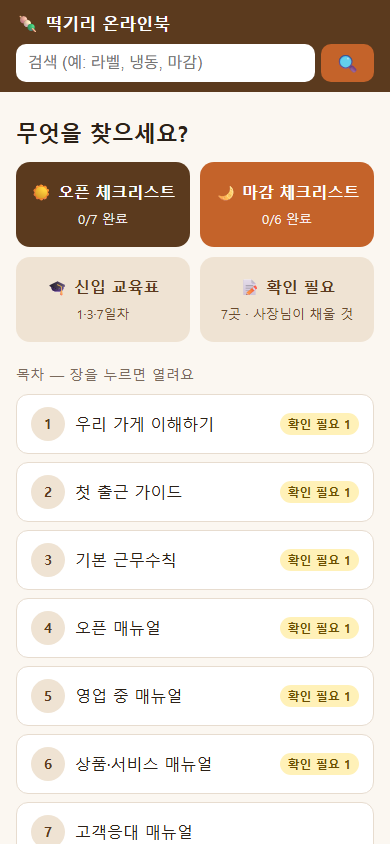
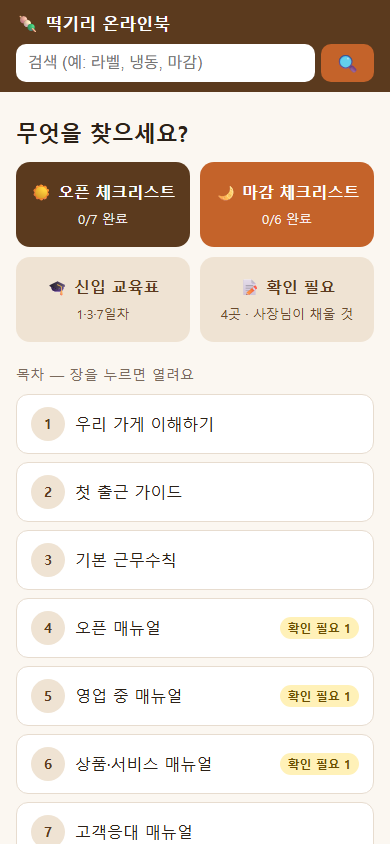
v1 매뉴얼 보완: 서비스 기준·출근/인수인계·보고 체계·지각/결근 기준 채움 (확인 필요 7→4곳) (떡기리)

diff --git a/02_실전캠프_Day2_실습제출/2조_김은정_떡기리/v1/프로젝트/content.js b/02_실전캠프_Day2_실습제출/2조_김은정_떡기리/v1/프로젝트/content.js
@@ -15,7 +15,10 @@ window.BOOK_MD = `# 떡기리 신입직원 교육 온라인북
 - **3무 원칙: 무방부제·무색소·무첨가**
 - 단순한 간식이 아니라 "선물로 나눌 수 있는 품격 / 가족이 함께 즐길 수 있는 따뜻함 / 건강을 지키는 가치"를 담음
 
-**우리가 중요하게 생각하는 서비스 기준**: *확인 필요 — 손님께 전하고 싶은 느낌을 한 줄로 알려주시면 채워넣겠습니다.*
+**우리가 중요하게 생각하는 서비스 기준 — "따뜻하게 맞이하고, 정직하게 설명하며, 정성껏 담아드립니다"**
+- [ ] **따뜻하게 맞이하기**: 손님이 들어오면 3초 안에 미소와 인사 (7장 ① 기준)
+- [ ] **정직하게 설명하기**: 원재료·첨가물·보관 기한은 아는 대로만 안내. 모르면 "확인해 드릴게요" 하고 사수에게 확인 후 답하기
+- [ ] **정성껏 담아드리기**: 포장은 6장 기준대로, 전달할 때 "흔들림 주의" 멘트까지 (7장 ③ 기준)
 
 ---
 
@@ -23,7 +26,9 @@ window.BOOK_MD = `# 떡기리 신입직원 교육 온라인북
 
 - [ ] 유니폼·앞치마·네임택 착용 (브랜드를 대표한다는 마음으로)
 - [ ] 손톱 짧게, 긴 머리는 묶기, 강한 향수·화장품 금지 *(8장 위생 기준과 동일)*
-- [ ] 출근 시간, 인수인계 방법: *확인 필요*
+- [ ] 출근 시간: **정해진 출근 시간을 지킨다** (근무 매장의 시간표 기준). 늦을 것 같으면 3장 지각·결근 기준대로 미리 연락
+- [ ] 교대(인수인계) 시 다음 근무자에게 **재고 · 예약 · 폐기 · 매장 특이사항** 4가지를 정확히 전달한다
+- [ ] 필요한 내용은 **인수인계 노트에 반드시 기록**한다 (말로만 전달하지 않기)
 - [ ] 급여 지급일·방식: 매장마다 다름 (근무 매장의 기준을 첫날 안내받기)
 - [ ] 첫날 담당 사수: 매니저 또는 점주
 - [ ] 첫날 목표: 이 온라인북의 1~4장(가게 이해·근무수칙·오픈)까지 훑어보기
@@ -38,7 +43,13 @@ window.BOOK_MD = `# 떡기리 신입직원 교육 온라인북
 - [ ] 점심·휴식 시간은 교대제로 준수
 - [ ] 매출·재고 관리 기록(v1 엑셀 툴 입력 등) 철저히 작성
 
-**인수인계·보고 체계, 지각·결근 처리 기준**: *확인 필요*
+**인수인계·보고 체계**
+- [ ] 교대 시 주요 업무·재고·예약·특이사항을 다음 근무자에게 정확히 인계한다 (2장 인수인계 노트 기준)
+- [ ] 문제가 생기면 **즉시 관리자(매니저·점주)에게 보고**한다
+
+**지각·결근 처리 기준**
+- [ ] 지각이나 결근이 예상되면 가능한 한 **사전에 관리자에게 직접 연락**한다
+- [ ] **무단 지각·무단 결근은 금지**
 
 ---
 

diff --git a/02_실전캠프_Day2_실습제출/2조_김은정_떡기리/PRD_전체.md b/02_실전캠프_Day2_실습제출/2조_김은정_떡기리/PRD_전체.md
@@ -12,7 +12,7 @@
 > AI에게: "PRD_전체.md를 인터뷰하면서 같이 채워 줘. 질문은 한 번에 하나씩, 내가 짧게 답하면 예를 들어 달라고 다시 물어봐 줘."
 
 **재료가 되는 기존 자료 (과제 1에서 이미 만든 것)**
-- `떡기리_신입직원_교육_온라인북.md` — 기존 PDF 매뉴얼 10개(오픈/마감/근무규정/서비스/위생/고객응대/조리/팝업/커피머신/제빙기)를 12장으로 합치고 중복을 없앤 결과물. 별도 출력물 4개(1·3·7일차 교육표, 오픈 체크리스트, 마감 체크리스트, 사장용 교육 완료 점검표) 포함. "확인 필요" 7곳.
+- `떡기리_신입직원_교육_온라인북.md` — 기존 PDF 매뉴얼 10개(오픈/마감/근무규정/서비스/위생/고객응대/조리/팝업/커피머신/제빙기)를 12장으로 합치고 중복을 없앤 결과물. 별도 출력물 4개(1·3·7일차 교육표, 오픈 체크리스트, 마감 체크리스트, 사장용 교육 완료 점검표) 포함. "확인 필요" 4곳.
 - `떡기리_재고발주추천툴.xlsx` — 마감 때 폐기수량을 넣으면 다음 날 추천 해동수량이 나오는 엑셀. 온라인북 4장·9장·10장에서 이 툴을 가리킨다.
 - 이 도구는 **그 내용을 새로 쓰는 게 아니라, 직원 폰에서 찾아보고 체크할 수 있는 화면으로 옮기는 것**이다.
 
@@ -61,7 +61,7 @@
 | 검색 | 단어를 치면 해당 장·항목이 바로 나옴. 없는 단어면 "찾는 내용이 없어요. 사수나 사장님께 물어보세요" | [v1] | 막힌 순간에 찾는 핵심 기능. 외부 연결 없음 |
 | 오픈·마감 체크리스트 | 별도 출력물 ②③(오픈 7항목·마감 6항목)을 눌러서 체크. "5/7 완료" 표시. 화면을 닫아도 오늘 체크 상태는 그 폰에 남고, 다음 날 새로 시작 | [v1] | 한 달에 1~2번 빠뜨리는 게 제일 아까운 실수. 폰 저장이라 데이터 창고 없이 가능 |
 | 1·3·7일차 교육표 + "읽었어요" 체크 | 12장 표를 화면으로. 신입이 그날 읽을 장으로 바로 이동, 읽으면 체크(그 폰에 남음) | [v1] | 내용이 이미 있고, 링크와 체크만 붙이면 됨 |
-| "확인 필요" 모아 보기 | 온라인북에 남은 "확인 필요" 7곳을 한 화면에 목록으로. 사장이 채울 것을 잊지 않게 | [v1] | 표시만 모으면 되는 작은 기능. 내용 채우기는 사장 몫 |
+| "확인 필요" 모아 보기 | 온라인북에 남은 "확인 필요" 4곳을 한 화면에 목록으로. 사장이 채울 것을 잊지 않게 | [v1] | 표시만 모으면 되는 작은 기능. 내용 채우기는 사장 몫 |
 | 사장 관리 화면 | 사장이 폰에서 바로 장 내용을 고치고, "확인 필요"를 채우고, 사진을 올림 (Supabase에 저장) | [v2] | 데이터 창고·사진 저장 필요. v1을 써 보며 어떤 장이 자주 바뀌는지 본 뒤 만드는 게 맞음 |
 | 직원별 교육·체크 기록 → 사장 점검표 | 직원이 별칭을 고르고 체크하면 누가 언제 오픈·마감 체크를 했는지, 1·3·7일차가 어디까지 됐는지 사장·사수가 봄. 별도 출력물 ④(교육 완료 점검표)를 화면으로 (Supabase) | [v2] | 여러 폰의 기록을 한곳에 모아야 해서 데이터 창고 필요. 관리자 확인은 사수가 누름 |
 | 재고 엑셀 툴 연결 | 오픈 4장 "추천 해동수량" 자리에 엑셀(재고발주추천툴)을 올리면 오늘 추천 수량이 화면에 뜸 | [v2] | 파일 올리기라 v1도 가능하지만, 먼저 북과 체크리스트가 자리 잡은 뒤. 엑셀 열 구조 확인 필요 |
@@ -83,7 +83,7 @@
 | 검색 결과 | 직원·사장 | 단어가 들어간 항목 목록 → 누르면 그 장의 그 위치. 없으면 안내 문구 | [v1] |
 | 오픈 체크리스트 / 마감 체크리스트 | 직원 | 7항목 / 6항목 체크, "5/7 완료" 진행 표시, 오늘 상태 유지, "자세히"를 누르면 4장·10장으로 | [v1] |
 | 신입 교육표 | 신입·사수 | 1·3·7일차 표, 각 장으로 가는 링크, "읽었어요" 체크 | [v1] |
-| "확인 필요" 목록 | 사장 | 7곳 목록과 위치. 누르면 그 자리로 | [v1] |
+| "확인 필요" 목록 | 사장 | 4곳 목록과 위치. 누르면 그 자리로 | [v1] |
 | 사장 관리 화면 | 사장 | 장·항목 편집, "확인 필요" 채우기, 사진 업로드, 시즌 장 켜기/끄기 | [v2] |
 | 직원별 기록·점검표 | 사장·사수 | 날짜별 누가 무엇을 체크했는지, 신입별 1·3·7일차 진행, 관리자 확인 버튼 | [v2] |
 | 오늘 추천 해동수량 | 직원 | 엑셀에서 읽은 제품별 추천 수량 (4장 안에 표시) | [v2] |
@@ -132,7 +132,7 @@
   - 검색창에 "라벨" 입력 → 6장 라벨링 항목(품목명/제조일/담당자/사용기한)이 나옴. "냉동" 입력 → 4장 냉동 -18℃ 항목. 없는 단어 → 안내 문구
   - 오픈 체크리스트에서 3개 체크 → "3/7 완료" → 화면 닫았다 열어도 3개 유지
   - 신입 교육표에서 1일차 "읽었어요" 체크 → 유지
-  - "확인 필요" 목록에 7개가 보이고 누르면 그 자리로 이동
+  - "확인 필요" 목록에 4개가 보이고 누르면 그 자리로 이동
 
 ## 10. 외부 연결 후보 (주로 v2)
 
@@ -149,7 +149,7 @@
 - [가정] 직원이 보면 안 되는 내용 없음
 - [가정] 체크리스트는 다음 날 초기화 · 인터넷이 끊겨도 마지막 장은 보임
 - [가정] 목표 숫자(직원 질문 주 2번 이하)는 어림. v1을 써 본 뒤 잰다
-- 온라인북의 "확인 필요" 7곳 (서비스 기준 한 줄, 출근 시간·인수인계, 지각·결근 처리, 음악·조명 기준, 피크타임 대응, 상세 레시피, 돌발상황 대응) — 사장이 채운다. 도구는 목록만 보여 준다
+- 온라인북의 "확인 필요" 4곳 (서비스 기준 한 줄, 출근 시간·인수인계, 지각·결근 처리, 음악·조명 기준, 피크타임 대응, 상세 레시피, 돌발상황 대응) — 사장이 채운다. 도구는 목록만 보여 준다
 - 신입 교육표의 "읽었어요"를 v1에서 그 폰에만 남길지, 처음부터 Supabase에 남길지 — v1은 폰에만 [가정]
 - 나중에 따로 (운영 도구가 아니라 여기서는 만들지 않음): 명절선물세트 패키지 기획(가게 소개의 원래 아이디어), 네이버플레이스 홍보 콘텐츠 생성(과제 2). 선물세트 포장·예약 접수 순서는 시즌 장으로 [v2]에 이어 둠
 
@@ -158,6 +158,7 @@
 | 날짜 | 무엇이 바뀌었나 | 왜 (써 본 경험 등) |
 |---|---|---|
 | 2026-09-17 | v1 PRD와 가게 소개에서 옮겨 처음 작성 · 인터뷰로 1·2·9번 숫자 채움 | 사전에 쓴 v1 PRD가 있어 이어 쓰기 |
+| 2026-09-17 | 사장 피드백으로 "확인 필요" 3곳 채움: 1장 서비스 기준, 2장 출근 시간·인수인계, 3장 보고 체계·지각·결근 기준 → 남은 확인 필요 4곳 | v1 마무리. 사장이 실제 기준을 정해 줌 |
 | 2026-09-17 | 과제 1 결과물(12장 온라인북 .md, 별도 출력물 4개, 재고 엑셀 툴)을 재료로 접목. 챕터 6개 → 12장, 교육표·"확인 필요" 목록 [v1] 추가, 결제·주문관리 장·돌발상황·엑셀 연결을 [v2]에 추가 · v1/v2 나눔 | 사장님이 과제 1 온라인북을 접목해 달라고 함. 내용은 이미 있으니 도구는 "찾아보고 체크하는 화면"에 집중 |
 
 ---

diff --git a/02_실전캠프_Day2_실습제출/2조_김은정_떡기리/v1/PRD.md b/02_실전캠프_Day2_실습제출/2조_김은정_떡기리/v1/PRD.md
@@ -46,7 +46,7 @@
 - 기능 2: **검색** — 단어를 치면 해당하는 장·항목이 바로 나옴
 - 기능 3: **오픈·마감 체크리스트** — 별도 출력물 ②③(오픈 7항목·마감 6항목)을 항목 하나씩 체크하며 진행. "5/7 완료" 표시. 화면을 닫아도 오늘 체크 상태는 그 폰에 남고, 다음 날 새로 시작
 - 기능 4: **신입 1·3·7일차 교육표 + "읽었어요" 체크** — 12장 표를 화면으로. 그날 읽을 장으로 바로 이동, 읽으면 체크(그 폰에 남음)
-- 기능 5: **"확인 필요" 모아 보기** — 온라인북에 남은 "확인 필요" 7곳을 한 화면 목록으로. 누르면 그 자리로
+- 기능 5: **"확인 필요" 모아 보기** — 온라인북에 남은 "확인 필요" 4곳을 한 화면 목록으로. 누르면 그 자리로
 - **이번에 하지 않을 것 (v2 또는 나중):**
   - 사장이 화면에서 직접 내용 수정·사진 업로드하는 관리 화면 (v1은 사장이 파일을 고쳐서 다시 올림)
   - 직원별 체크·교육 기록을 한곳에 모으는 것과 사장용 점검표 (v1은 그 폰에만 남음)
@@ -56,7 +56,7 @@
 ## 6. 완성됐다는 걸 어떻게 확인하나요?
 
 - 시연할 예시 입력: 폰으로 주소를 열고 → 목차에서 "8장 위생·청소" 클릭 → 검색창에 "라벨" 입력 → 오픈 체크리스트에서 3개 체크 → 신입 교육표에서 1일차 "읽었어요" 체크 → "확인 필요" 목록 열기
-- 기대하는 결과: 8장이 열리고 기기별 세척 주기 표가 보임. "라벨" 검색 시 6장 라벨링 항목(품목명/제조일/담당자/사용기한)이 나옴. 오픈 체크리스트가 "3/7 완료"로 보임. "확인 필요" 목록에 7개가 보이고 누르면 그 자리로 이동
+- 기대하는 결과: 8장이 열리고 기기별 세척 주기 표가 보임. "라벨" 검색 시 6장 라벨링 항목(품목명/제조일/담당자/사용기한)이 나옴. 오픈 체크리스트가 "3/7 완료"로 보임. "확인 필요" 목록에 4개가 보이고 누르면 그 자리로 이동
 - 잘못 입력했을 때: 없는 단어를 검색하면 "찾는 내용이 없어요. 사수나 사장님께 물어보세요" 문구가 나오고 화면이 깨지지 않음. "확인 필요" 항목을 직원이 열면 "아직 기준이 정해지지 않았어요. 사수에게 확인하세요"
 - 다시 열었을 때 남아 있어야 할 것: 같은 폰에서 오늘 체크한 오픈·마감 체크리스트 상태와 교육표 "읽었어요" 상태. 내용 자체는 파일에 있으니 항상 그대로. 하루가 지나면 체크리스트는 새로 시작
 

diff --git a/02_실전캠프_Day2_실습제출/2조_김은정_떡기리/v1/프로젝트/content.md b/02_실전캠프_Day2_실습제출/2조_김은정_떡기리/v1/프로젝트/content.md
@@ -14,7 +14,10 @@
 - **3무 원칙: 무방부제·무색소·무첨가**
 - 단순한 간식이 아니라 "선물로 나눌 수 있는 품격 / 가족이 함께 즐길 수 있는 따뜻함 / 건강을 지키는 가치"를 담음
 
-**우리가 중요하게 생각하는 서비스 기준**: *확인 필요 — 손님께 전하고 싶은 느낌을 한 줄로 알려주시면 채워넣겠습니다.*
+**우리가 중요하게 생각하는 서비스 기준 — "따뜻하게 맞이하고, 정직하게 설명하며, 정성껏 담아드립니다"**
+- [ ] **따뜻하게 맞이하기**: 손님이 들어오면 3초 안에 미소와 인사 (7장 ① 기준)
+- [ ] **정직하게 설명하기**: 원재료·첨가물·보관 기한은 아는 대로만 안내. 모르면 "확인해 드릴게요" 하고 사수에게 확인 후 답하기
+- [ ] **정성껏 담아드리기**: 포장은 6장 기준대로, 전달할 때 "흔들림 주의" 멘트까지 (7장 ③ 기준)
 
 ---
 
@@ -22,7 +25,9 @@
 
 - [ ] 유니폼·앞치마·네임택 착용 (브랜드를 대표한다는 마음으로)
 - [ ] 손톱 짧게, 긴 머리는 묶기, 강한 향수·화장품 금지 *(8장 위생 기준과 동일)*
-- [ ] 출근 시간, 인수인계 방법: *확인 필요*
+- [ ] 출근 시간: **정해진 출근 시간을 지킨다** (근무 매장의 시간표 기준). 늦을 것 같으면 3장 지각·결근 기준대로 미리 연락
+- [ ] 교대(인수인계) 시 다음 근무자에게 **재고 · 예약 · 폐기 · 매장 특이사항** 4가지를 정확히 전달한다
+- [ ] 필요한 내용은 **인수인계 노트에 반드시 기록**한다 (말로만 전달하지 않기)
 - [ ] 급여 지급일·방식: 매장마다 다름 (근무 매장의 기준을 첫날 안내받기)
 - [ ] 첫날 담당 사수: 매니저 또는 점주
 - [ ] 첫날 목표: 이 온라인북의 1~4장(가게 이해·근무수칙·오픈)까지 훑어보기
@@ -37,7 +42,13 @@
 - [ ] 점심·휴식 시간은 교대제로 준수
 - [ ] 매출·재고 관리 기록(v1 엑셀 툴 입력 등) 철저히 작성
 
-**인수인계·보고 체계, 지각·결근 처리 기준**: *확인 필요*
+**인수인계·보고 체계**
+- [ ] 교대 시 주요 업무·재고·예약·특이사항을 다음 근무자에게 정확히 인계한다 (2장 인수인계 노트 기준)
+- [ ] 문제가 생기면 **즉시 관리자(매니저·점주)에게 보고**한다
+
+**지각·결근 처리 기준**
+- [ ] 지각이나 결근이 예상되면 가능한 한 **사전에 관리자에게 직접 연락**한다
+- [ ] **무단 지각·무단 결근은 금지**
 
 ---
 

diff --git a/02_실전캠프_Day2_실습제출/2조_김은정_떡기리/v1/제출서.md b/02_실전캠프_Day2_실습제출/2조_김은정_떡기리/v1/제출서.md
@@ -27,7 +27,7 @@
 - 검색: 단어를 치면 장·항목이 나오고 누르면 그 자리로 이동·강조. 없는 단어면 "찾는 내용이 없어요. 사수나 사장님께 물어보세요"
 - 오픈(7항목)·마감(6항목) 체크리스트: "3/7 완료" 표시, 화면을 닫아도 오늘 상태 유지, 날짜가 바뀌면 새로 시작
 - 신입 1·3·7일차 교육표: 장 링크 + "읽었어요" 체크(계속 남음)
-- "확인 필요" 모아 보기: 7곳 목록, 누르면 그 자리로
+- "확인 필요" 모아 보기: 4곳 목록, 누르면 그 자리로
 
 ## 아직 안 되는 것 / 다음에 할 것
 
